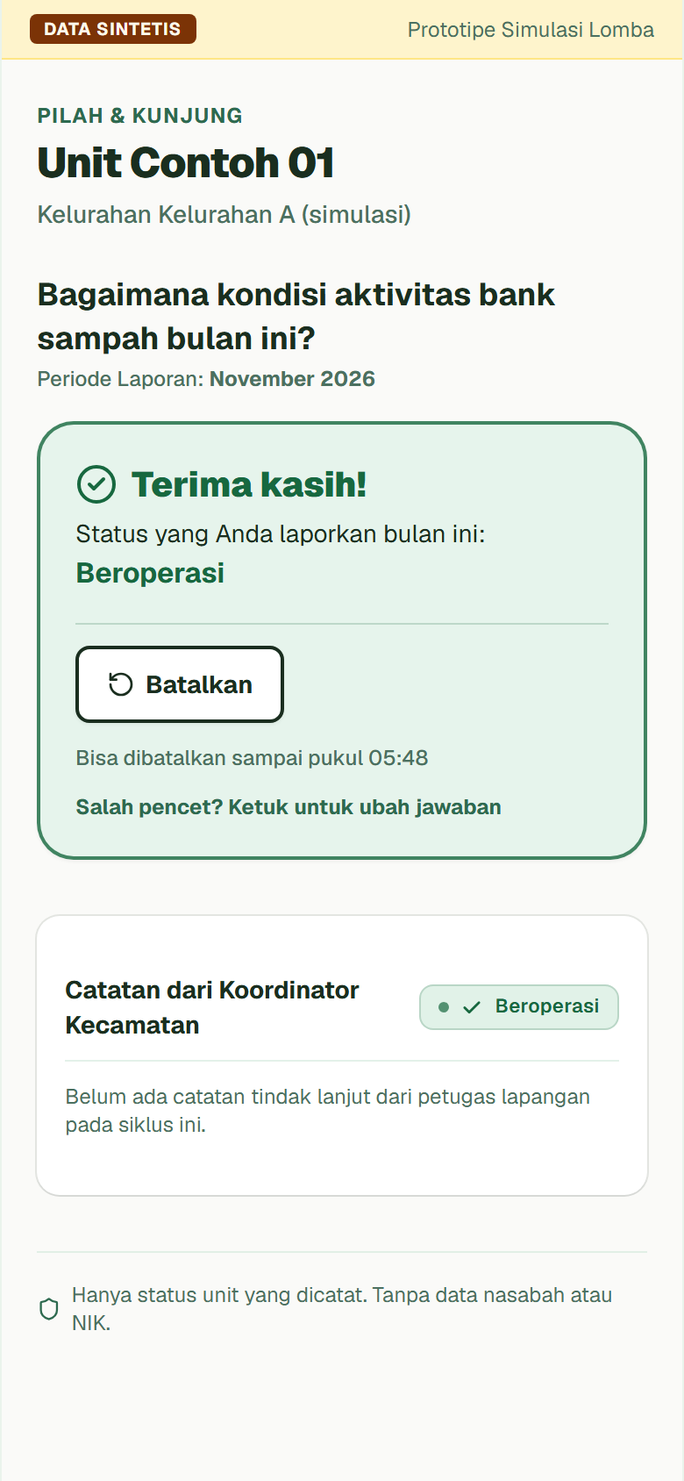
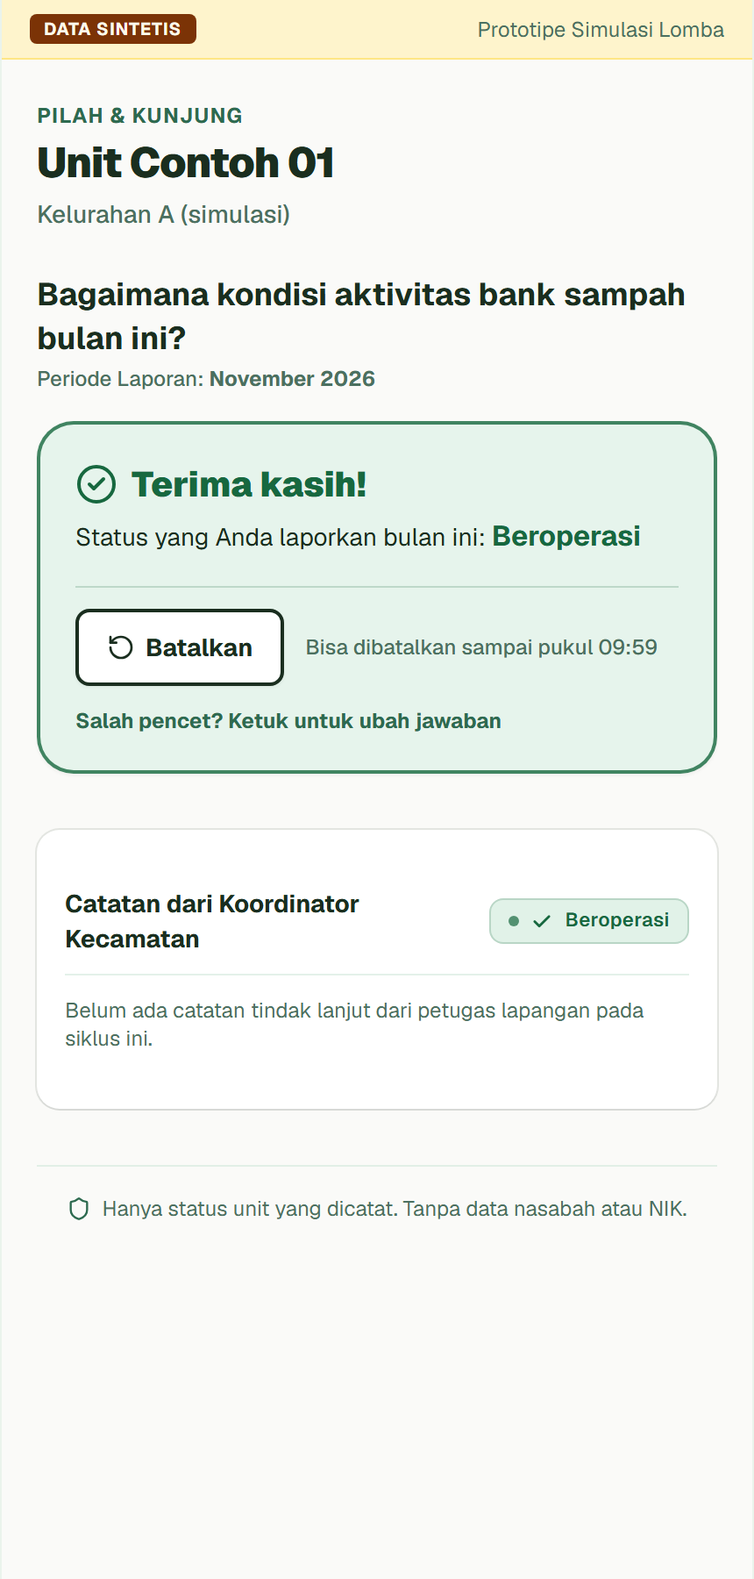
chore: sync UI labels, zod dependency, screenshots, and semifinal docs

diff --git a/src/components/landing/content.tsx b/src/components/landing/content.tsx
@@ -26,7 +26,7 @@ export const STEPS = [
     num: "02",
     title: "Check-In 1 Ketukan",
     href: `/c/${demo.token}`,
-    desc: "Pengurus buka tautan di ponsel, tanpa login dan tanpa password. Pilih satu status: Beroperasi, Libur, atau Tutup. Selesai dalam 10 detik.",
+    desc: "Pengurus buka tautan di ponsel, tanpa login dan tanpa password. Pilih satu status: Beroperasi, Dijeda, atau Tutup. Selesai dalam 10 detik.",
     tag: "< 10 Detik",
     icon: Smartphone,
     iconBg: "bg-green-brand text-white",
@@ -61,7 +61,7 @@ export const STATS = [
 export const GUIDE_PENGURUS = [
   "Tunggu pesan WhatsApp dari koordinator setiap awal bulan",
   "Ketuk tautan dalam pesan, langsung terbuka di browser ponsel",
-  "Pilih satu status: Beroperasi, Libur, atau Tutup Permanen",
+  "Pilih satu status: Beroperasi, Dijeda, atau Tutup Permanen",
   "Selesai! Tidak ada login, tidak ada aplikasi yang perlu diinstall",
 ];
 
@@ -75,7 +75,7 @@ export const GUIDE_KOORDINATOR = [
 export const AUDIT_MATRIX = [
   { spec: "Alur 4 Layar Klik Interaktif", detail: "Mode demo memakai localStorage; mode DB memakai PostgreSQL lewat API", status: "Works (Simulasi)", tier: "live" },
   { spec: "4 Status Siklus & Fitur Pembatalan", detail: "Operating, Paused, Closed (konfirmasi 2 tahap), pembatalan 10 menit", status: "Works (Simulasi)", tier: "live" },
-  { spec: "Mesin Kalkulasi Prioritas Kunjungan", detail: "Algoritma deterministik 3×M + W + B diuji dengan unit test", status: "Library + Tests", tier: "tested" },
+  { spec: "Mesin Kalkulasi Prioritas Kunjungan", detail: "Algoritma deterministik 2×M + W + B diuji dengan unit test", status: "Library + Tests", tier: "tested" },
   { spec: "Keamanan Token & Idempotensi", detail: "Hash SHA-256 (128-bit entropy), rate limiter, GET aman anti-crawler WA", status: "Library + Tests", tier: "tested" },
   { spec: "Basis Data & Rollover Siklus", detail: "PostgreSQL, Prisma, sesi RBAC, rollover dipicu admin (cron belum)", status: "Works (DB)", tier: "live" },
   { spec: "Integrasi WhatsApp Business API", detail: "Pengiriman pesan otomatis terintegrasi langsung ke nomor pengurus", status: "Planned (Fase 2 dan 3)", tier: "planned" },

diff --git a/src/components/coordinator/UnitDetailClient.tsx b/src/components/coordinator/UnitDetailClient.tsx
@@ -89,7 +89,7 @@ export function UnitDetailClient() {
         <div>
           <h1 className="text-3xl font-black tracking-tight text-ink">{unit.name}</h1>
           <p className="text-sm text-muted">
-            Kelurahan {unit.kelurahan} · Kontak pengurus: <span className="font-mono">{unit.contact}</span>{" "}
+            {unit.kelurahan} · Kontak pengurus: <span className="font-mono">{unit.contact}</span>{" "}
             <span className="text-xs text-muted/70">(nomor sintetis)</span>
           </p>
         </div>
@@ -169,7 +169,7 @@ export function UnitDetailClient() {
                   className="h-full w-full object-cover group-hover:scale-102 transition-transform duration-300"
                 />
                 <div className="absolute bottom-2 left-2 bg-spruce/85 backdrop-blur-xs text-white text-[10px] font-mono px-2 py-0.5 rounded-sm tracking-wider uppercase">
-                  Titik Kumpul: Kelurahan {unit.kelurahan}
+                  Titik Kumpul: {unit.kelurahan}
                 </div>
               </div>
             </div>

diff --git a/src/components/manager/CheckinClient.tsx b/src/components/manager/CheckinClient.tsx
@@ -131,7 +131,7 @@ export function CheckinClient() {
       <div className="space-y-1">
         <p className="text-xs font-bold uppercase tracking-wider text-brand">Pilah &amp; Kunjung</p>
         <h1 className="text-2xl font-black tracking-tight text-ink leading-tight">{unit.name}</h1>
-        <p className="text-sm text-muted font-medium">Kelurahan {unit.kelurahan}</p>
+        <p className="text-sm text-muted font-medium">{unit.kelurahan}</p>
       </div>
 
       <section className="mt-6" aria-labelledby="q">
@@ -192,8 +192,8 @@ export function CheckinClient() {
             <BigChoiceButton
               tone="PAUSED"
               icon={<PauseIcon className="h-6 w-6 text-pa" />}
-              label="Libur Sementara"
-              hint="Berhenti sementara, namun berencana aktif lagi"
+              label="Dijeda"
+              hint="Libur atau berhenti sementara, berencana aktif lagi"
               selected={thisCycleSignal?.status === "PAUSED"}
               onClick={() => choose("PAUSED")}
             />

diff --git a/src/components/coordinator/CyclesClient.tsx b/src/components/coordinator/CyclesClient.tsx
@@ -260,7 +260,7 @@ export function CyclesClient() {
                           </div>
 
                           <p className="text-[11px] text-zinc-700">
-                            Terima kasih, <i>Koordinator DLH</i>
+                            Terima kasih, <i>Korcam Gunungpati</i>
                           </p>
 
                           <div className="flex items-center justify-end gap-1 pt-0.5 text-[10px] text-zinc-500">

diff --git a/src/components/coordinator/AppNav.tsx b/src/components/coordinator/AppNav.tsx
@@ -60,7 +60,7 @@ export function AppNav() {
               Pilah &amp; Kunjung
             </span>
             <span className="text-[10px] font-medium text-muted tracking-wide">
-              DLH Kota Semarang
+              Pilot Kec. Gunungpati (Simulasi)
             </span>
           </div>
         </Link>

diff --git a/docs/TECHNICAL-DESIGN.md b/docs/TECHNICAL-DESIGN.md
@@ -18,9 +18,9 @@ Contoh ekspor: `pandoc docs/TECHNICAL-DESIGN.md -o technical-design.pdf --number
 - [06 — Logika Peringkat Kunjungan (deterministik, tanpa AI)](#doc-06)
 - [07 — Rundown Pengerjaan per Role](#doc-07)
 - [08 — Tugas Substantif Final Day (16 Des)](#doc-08)
-- [09 — Pengungkapan Bantuan AI (isi dan perbarui jujur)](#doc-09)
+- [09 — Pengungkapan Bantuan AI (diperbarui secara transparan)](#doc-09)
 - [10 — Git (commit, push, merge) dan deploy Vercel gratis](#doc-10)
-- [ADR 0001 — Pilihan stack (STATUS: USULAN, tim konfirmasi)](#adr-0001)
+- [ADR 0001 — Pilihan stack (STATUS: DITERIMA, 27 November 2026)](#adr-0001)
 
 ---
 
@@ -227,9 +227,9 @@ Sederhana, bisa diserahterimakan ke operator DLH, tanpa biaya AI, tanpa data war
 ## Env (tanpa rahasia di repo)
 DATABASE_URL, DIRECT_URL (koneksi langsung untuk migrasi; di Neon = host non-pooled), AUTH_SECRET, APP_BASE_URL, TOKEN_PEPPER. Opsional untuk seed: SEED_ADMIN_*, SEED_COORDINATOR_*, SEED_ADVISOR_*. Contoh di `.env.example`; rahasia tidak boleh di-commit.
 
-## Backend — PostgreSQL + Prisma (API aktif; UI beralih otomatis bila DB tersedia)
+## Backend: PostgreSQL + Prisma (Arsitektur Dual-Mode Aktif)
 
-Ruang lingkup: lapisan server nyata untuk alur inti. UI dashboard/Pesan WA/check-in **masih** memakai state demo di browser; migrasi UI ke API adalah fase berikutnya. Tidak ada AI/ML dan tidak ada tabel data pribadi warga.
+Ruang lingkup: lapisan server penuh untuk alur inti, lengkap dengan jembatan `AppDataProvider` (`GET /api/health`). Saat `DATABASE_URL` tersedia, seluruh antarmuka (`/cycles`, `/dashboard`, `/units/[id]`, `/c/[token]`, `/settings`) otomatis berjalan dalam mode `api` dan melakukan operasi baca/tulis langsung ke PostgreSQL 16 melalui 14 Route Handlers bervalidasi Zod. Tanpa database (misalnya pada demo statis), sistem otomatis jatuh ke simulasi `localStorage` tanpa konfigurasi. Tidak ada AI/ML dan tidak ada tabel data pribadi warga.
 
 ```mermaid
 flowchart LR
@@ -299,9 +299,9 @@ Verifikasi yang sudah dijalankan: `prisma validate` ✅, `prisma generate` ✅, 
 - Sesi stateless: mencabut satu sesi belum didukung (rotasi `AUTH_SECRET` membatalkan semua).
 - Rollover belum dijadwalkan otomatis (cron); saat ini dipicu `POST /api/cycles` oleh admin.
 - Tautan check-in hanya bisa ditampilkan sekali saat rotasi. UI Pesan WA perlu memanggil endpoint rotasi atau menyimpan tautan di sisi klien sampai terkirim.
-- Form edit bobot sudah tersedia, tetapi nilainya tetap **heuristik yang belum divalidasi lapangan** (data sintetis). UI memberi label "visualisasi simulasi — angka dummy, bukan rekomendasi operasional". Di mode demo tanpa database, form tetap tampil sebagai visualisasi POV DLH; perubahan hanya tersimpan di `localStorage` dan diberi label demikian. Di mode DB, hanya ADMIN yang boleh menulis ke `ranking_settings`.
+- Form edit bobot sudah tersedia, tetapi nilainya tetap **heuristik yang belum divalidasi lapangan** (data sintetis). UI memberi label "visualisasi simulasi, angka dummy, bukan rekomendasi operasional". Di mode demo tanpa database, form tetap tampil sebagai visualisasi POV DLH; perubahan hanya tersimpan di `localStorage` dan diberi label demikian. Di mode DB, hanya ADMIN yang boleh menulis ke `ranking_settings`.
 
-## Technical design — lapisan presentasi & interaksi (sudah diterapkan di prototipe)
+## Technical design: lapisan presentasi dan interaksi (sudah diterapkan di prototipe)
 
 Ruang lingkup: **kosmetik dan interaksi saja**. Tidak mengubah alur empat layar, kontrak GET/POST, rumus `src/lib/ranking`, skema Prisma, atau status fitur di README. Tidak ada AI/ML, tidak ada data pribadi baru, dan tidak ada dependency runtime baru.
 
@@ -329,7 +329,7 @@ flowchart TB
 | Reduced motion | `html { scroll-behavior: auto !important }`, `transition/animation: none`, translate hover dimatikan | Memakai `prefers-reduced-motion: reduce`; tidak ada konten yang tersembunyi permanen. |
 | Fokus | `:focus-visible` outline 3 px `#40916c`, offset 2 px, radius 8 px | Tidak diubah dari sistem sebelumnya. |
 | Jarak antar tombol | `DialogFooter` memakai `gap-3` (12 px) di semua breakpoint; grup tombol pasangan/aksi memakai `gap-2`–`gap-3` | Sebelumnya `sm:gap-0` membuat tombol Batal/Simulasikan menempel di layar lebar; kini ada jarak tetap dan aman untuk sentuh. |
-| Mockup perangkat | Bingkai iPhone CSS `aspect-[9/19.5]` (mis. 310×672 px), **dua lapis**: rail titanium 6 px + bezel hitam 4 px, dynamic island, tombol samping, status bar, dan home indicator | Mockup di layar Pesan WA memakai proporsi perangkat nyata, bukan kotak 340 px. Ketebalan frame 10 px per sisi agar proporsional pada lebar 310 px (sebelumnya 3 px terlihat terlalu tipis). Murni CSS — tanpa file gambar perangkat, tetap tajam dan responsif (`max-w-[310px]`). |
+| Mockup perangkat | Bingkai iPhone CSS `aspect-[9/19.5]` (mis. 310×672 px), **dua lapis**: rail titanium 6 px + bezel hitam 4 px, dynamic island, tombol samping, status bar, dan home indicator | Mockup di layar Pesan WA memakai proporsi perangkat nyata, bukan kotak 340 px. Ketebalan frame 10 px per sisi agar proporsional pada lebar 310 px (sebelumnya 3 px terlihat terlalu tipis). Murni CSS tanpa file gambar perangkat, tetap tajam dan responsif (`max-w-[310px]`). |
 
 ### Peta komponen
 
@@ -360,7 +360,7 @@ flowchart TB
 
 - Ranking tetap rumus deterministik; tidak ada model AI/ML dan tidak ada prediksi.
 - Tidak ada perubahan skema → `docs/02-ERD.md` tidak perlu diubah.
-- State demo prototipe masih di `localStorage` lewat `lib/demo/store`; target state di server (bagian Backend di atas) belum diimplementasikan.
+- Saat berjalan tanpa `DATABASE_URL` (mode demo statis), state prototipe disimpan di `localStorage` lewat `lib/demo/store`; saat `DATABASE_URL` aktif, state dikelola penuh oleh server PostgreSQL melalui `AppDataProvider` dan Route Handlers.
 - Perubahan status tetap hanya lewat POST; render GET tidak memutasi data.
 - Chip material pada foto infrastruktur hanya label umum yang selaras dengan tulisan yang memang terlihat di foto (`BOTOL PLASTIK`, `KERTAS`, `DAUN`), bukan angka lapangan.
 - Teks UI memakai tanda baca alami (titik, koma, titik dua). Em dash dan double dash tidak dipakai di teks yang dirender; yang tersisa hanya di komentar kode.
@@ -384,7 +384,7 @@ Prinsip: kontrol keamanan tidak boleh menambah beban pengurus (relawan, ada yang
 | 4 | Salah ketuk | Batalkan 10 menit (undone_at) | Toast "Batalkan" besar | checkin_signals |
 | 5 | Kebocoran URL via referrer/mesin pencari | Referrer-Policy: no-referrer, X-Robots-Tag: noindex | Tidak terlihat | - |
 | 6 | Brute force token | Rate limit per IP + per token; respons seragam | Halaman "tautan tidak berlaku" yang netral | audit_logs |
-| 7 | Akun korcam diambil alih | Hash kata sandi (argon2/bcrypt), sesi httpOnly, CSRF | Login sederhana, pesan galat umum | users |
+| 7 | Akun korcam diambil alih | Hash kata sandi scrypt (Node.js crypto, timing-safe), cookie sesi httpOnly bertanda tangan HMAC-SHA256 (8 jam) | Login sederhana, pesan galat umum | users |
 | 8 | Akses lintas kecamatan | RBAC: korcam hanya sub_district miliknya; admin lintas | Dasbor otomatis terfilter | users, sub_districts |
 | 9 | Perubahan tidak terlacak | Audit log tindakan korcam/admin | Riwayat terlihat di /units/[id] | audit_logs, visit_confirmations |
 | 10 | Data pribadi warga | Tidak ada tabel nasabah; nomor WA pengurus hanya untuk korcam/admin | Nomor disamarkan di layar pengurus | units |
@@ -422,7 +422,7 @@ Bobot rumus, cutoff_days, daftar unit (tambah/arsip), pengguna.
 ## Komponen
 StatusBadge, BigChoiceButton, UnitRow, ScoreTooltip, ConfirmDialog, SyntheticBanner, EmptyState.
 
-Token radius Fibonacci, header kaca, badge status modern, smooth scroll, dan perilaku hover kontras dijelaskan di `docs/03-ARCHITECTURE.md` bagian "Technical design — lapisan presentasi & interaksi".
+Token radius Fibonacci, header kaca, badge status modern, smooth scroll, dan perilaku hover kontras dijelaskan di `docs/03-ARCHITECTURE.md` bagian "Technical design: lapisan presentasi dan interaksi".
 
 ---
 
@@ -454,6 +454,12 @@ export function score(u: UnitInput, cfg: Cfg): number | null {
 ## Tes wajib (tests/ranking)
 Closed dikecualikan; seri dipecah last_signal_at; bobot dari settings; batas 3 dan 6 bulan; unit tanpa riwayat.
 
+## Mitigasi Klaim Beroperasi Semu (False-Positive Self-Reporting)
+Untuk mengantisipasi pengurus yang mengetuk `Beroperasi` agar cepat selesai atau sungkan (*courtesy tap*) tanpa merusak target check-in `<10` detik (tanpa wajib unggah foto GPS tiap bulan), sistem menerapkan tiga lapis pertahanan:
+1. **Insentif Sosial Tanpa Sanksi:** Pengurus bekerja sukarela tanpa honor rutin (`Noerchaisna & Marom, 2025`; `Situmeang et al., 2023`). Status `Dijeda` memicu bantuan pendampingan atau mitra pengepul (Perwalkot Semarang 103/2021 Pasal 41g), sedangkan `Tutup` menghentikan pengingat bulanan setelah konfirmasi korcam.
+2. **Isolasi `monthsSinceContact` (`B_kunjungan`) dari Ketukan Pengurus:** Di `src/lib/ranking/index.ts`, ketukan pengurus hanya memperbarui `last_signal_at` (`checkin_signals`), sedangkan `last_visited_at` (`monthsSinceContact`) **hanya di-reset oleh verifikasi korcam/DLH (`visit_confirmations`)**. Unit yang terus mengetuk `Beroperasi` tanpa pernah diverifikasi `>6` bulan tetap memperoleh `B_kunjungan = +2` agar terambil untuk uji petik berkala (*spot-check*) saat antrean mendesak mereda.
+3. **Pemeriksaan Silang Pasif (*Zero-Burden Cross-Check*):** Korcam (yang juga pengurus bank sampah di kecamatan sama) dan Bank Sampah Induk (BSI) kecamatan dapat mencocokkan klaim `Beroperasi` beruntun dengan catatan riwayat jemputan sampah kering serta laporan kemitraan 6-bulanan (Permen LHK No. 14/2021 Pasal 15 ayat 4 & Lampiran IV).
+
 ---
 
 <a id="doc-07"></a>
@@ -474,19 +480,17 @@ Proposal saat ini mengklaim "clickable flow sudah dibangun" dan "dataset sinteti
 Gerbang kualitas: semua klaim "sudah" punya bukti (tangkapan layar/berkas).
 
 ## Fase 2 — Menunggu pengumuman Top 10 (1–6 Des)
-Siapkan repo kosong berstruktur (folder di README), `.env.example`, docker-compose, migrasi awal. Jangan menganggap lolos.
-**Status 27 Nov:** schema final, migrasi awal, `docker-compose.yml`, seed sintetis, auth/RBAC, endpoint inti, dan penyambungan UI ke API sudah dibuat (lihat docs/03). Mode demo localStorage tetap tersedia bila database tidak dikonfigurasi.
+Siapkan penyediaan database cloud (Neon/Supabase), mekanisme pencabutan sesi aktif, serta skrip uji integrasi/beban. Jangan menganggap lolos.
+**Status 27 Nov:** skema final 10 tabel Prisma, migrasi awal, `docker-compose.yml`, seed sintetis, auth scrypt + sesi HMAC, RBAC, 14 endpoint inti bervalidasi Zod, workspace `/settings`, dan penyambungan UI dua mode via `AppDataProvider` sudah dibuat (lihat `docs/03-ARCHITECTURE.md`). Mode demo `localStorage` tetap aktif otomatis bila `DATABASE_URL` tidak dikonfigurasi.
 
 ## Fase 3 — Perbaikan produk (7–16 Des, jika lolos)
 | Hari | Tugas | Pemilik |
 |------|-------|---------|
-| 7–8 | Setup proyek, DB, seed 30 unit, layout dasar | C + B |
-| 8–10 | Token + endpoint check-in (POST, hash, rate limit) + halaman /c/[token] | C + B |
-| 10–12 | Login + RBAC + dasbor baca-saja (tabel unit) | C + B |
-| 12–13 | Pembuat pesan wa.me + halaman /cycles | A + B |
-| 13–14 | Tes keamanan dasar (tests/security), uji simulasi | D + C |
-| 14–15 | README (setup, batasan, bantuan AI), fallback lokal, cadangan demo | A + D |
-| 15–16 | Latihan pitch, catat commit awal, daftar fitur selesai vs belum | semua |
+| 7–9 | Penyediaan database PostgreSQL cloud (Neon/Supabase) + konfigurasi env Vercel | C + A |
+| 9–11 | Mekanisme pencabutan sesi per pengguna + halaman admin manajemen pengguna | C + B |
+| 11–13 | Pengujian integrasi end-to-end (mode DB & mode demo) + simulasi beban | D + C |
+| 13–14 | Finalisasi fallback lokal `docker-compose`, README, dan verifikasi AI disclosure | A + D |
+| 15–16 | Latihan pitch, catat commit awal Final Day, siapkan 3 tugas substantif Final Day (`docs/08`) | semua |
 Catatan: langganan Claude habis 8 Des; seluruh arahan ada di docs/ dan AGENTS.md agar tidak bergantung pada satu asisten.
 
 ---
@@ -494,29 +498,29 @@ Catatan: langganan Claude habis 8 Des; seluruh arahan ada di docs/ dan AGENTS.md
 <a id="doc-08"></a>
 
 # 08 — Tugas Substantif Final Day (16 Des)
-Handbook: tim datang dengan prototipe sebagian jadi lalu menyelesaikan 2–3 tugas besar.
-1. **Siklus konfirmasi dua arah:** korcam mencatat kontak/kunjungan -> status unit berubah -> pengurus melihat umpan balik di /c/[token]. (visit_confirmations, current_status)
-2. **Mesin peringkat langsung:** `lib/ranking` terhubung ke dasbor, filter status, penyesuaian manual, bobot dari settings. (tests/ranking hijau)
-3. **Rollover siklus + ekspor CSV:** siklus baru memicu Unconfirmed otomatis; ekspor daftar kunjungan.
+Handbook: tim datang dengan prototipe sebagian jadi lalu menyelesaikan 2 hingga 3 tugas besar secara langsung selama sesi membangun.
+1. **Distribusi Token Produksi Sekali-Tampil & Manajemen CRUD Unit di UI (`/units` & `/cycles`):** menghubungkan endpoint rotasi/pencabutan token (`POST /api/units/[id]/token`) serta formulir tambah dan arsip unit langsung ke alur pengiriman pesan WhatsApp korcam (menggantikan token pratinjau seed statis).
+2. **Evaluasi Cutoff Siklus Otomatis & Komparasi Tren Antar-Siklus Bulanan:** deteksi otomatis unit yang melewati `cutoff_at` tanpa pemicu manual admin, disertai ringkasan tren perubahan status antar-bulan di dasbor.
+3. **Tampilan Agregasi Lintas-Kecamatan untuk Pembina DLH (`ADVISOR`) & Peninjau Jejak Audit (`AuditLog`) di Aplikasi:** membangun pemilih serta rekapitulasi lintas kecamatan bagi peran `ADVISOR` dan tabel inspeksi `audit_logs` di antarmuka web.
 ## Yang HARUS sudah ada sebelum Final Day
-Skema+migrasi, seed sintetis, /c/[token] (check-in berfungsi), login, dasbor baca-saja. Catat commit awal.
+Skema 10 tabel Prisma + migrasi SQL, seed 30 unit sintetis, autentikasi `scrypt` + RBAC, UI 4 layar dual-mode (`AppDataProvider`), 14 endpoint Route Handler inti, serta 28 unit test hijau. Catat commit awal saat check-in Final Day.
 ## Definisi selesai
-Satu alur lengkap berjalan dari pesan WA -> ketuk -> dasbor -> kunjungan -> umpan balik, dengan data sintetis berlabel.
+Seluruh alur produksi berjalan tanpa token demo statis: tambah unit -> rotasi token acak 128-bit -> kirim WA -> check-in pengurus -> evaluasi cutoff otomatis -> tindak lanjut kunjungan -> peninjauan lintas kecamatan oleh pembina DLH dan audit log, dengan seluruh data sintetis berlabel jelas.
 
 ---
 
 <a id="doc-09"></a>
 
-# 09 — Pengungkapan Bantuan AI (isi dan perbarui jujur)
-| Tool | Peran | Bagian |
-|------|-------|--------|
-| Claude | Riset literatur awal, struktur proposal, usulan ERD/arsitektur/rundown, suntingan bahasa | docs/, proposal |
-| Gemini | (isi sesuai kenyataan) | |
-| (tool coding bila dipakai) | | |
-Produk tidak memakai AI saat berjalan. Tim meninjau, mengetes, dan bertanggung jawab atas semua keluaran.
-| Claude (Claude Code) | Menulis kode awal prototipe: UI 4 layar, pustaka ranking/token/wa.me, tes, data seed sintetis, README | src/, tests/, seed/, scripts/ — **tim wajib meninjau & menguji sebelum klaim di proposal 7.3 (ditinjau oleh: ____ , tanggal: ____)** |
-| OpenCode (Hy4 flash Free) | Menyempurnakan lapisan visual/interaksi: smooth scroll + tombol kembali ke atas, header kaca, skala radius Fibonacci, status badge modern (dot + ikon + inversi kontras), hover kontras pada tabel/kartu/baris/form, integrasi ikon SVG `public/icons/waste-bank` dan foto `public/images` yang sudah ada, serta mark logo + favicon SVG baru | src/app/globals.css, src/app/layout.tsx, src/app/page.tsx, src/components/{common,landing,coordinator,ui,manager}, public/{logo.svg,favicon.svg} — **hanya kosmetik; tidak mengubah alur, status fitur, atau data. Tim wajib meninjau & menguji (ditinjau oleh: ____ , tanggal: ____)** |
-| OpenCode (DeepSeek V4.1 Flash Free) | Mengimplementasikan backend PostgreSQL + Prisma (schema, migrasi, seed, auth scrypt + sesi HMAC, RBAC, service, Route Handler Zod + rate limit, CSV) **dan menyambungkan UI ke API** dengan fallback mode demo, login sungguhan, proteksi area koordinator, serta form simulasi admin untuk bobot per kecamatan | prisma/, src/lib/{db,auth,api,services,appdata}, src/app/api/**, src/components/{LoginClient,SettingsClient}.tsx, src/proxy.ts, docker-compose.yml, .env.example, tests/backend.test.ts — **migrasi/seed, smoke test endpoint (termasuk validasi bobot 422), dan uji browser login→dasbor→check-in/undo→form settings sudah dijalankan terhadap PostgreSQL 19; tim tetap wajib meninjau (ditinjau oleh: ____ , tanggal: ____)** |
+# 09 — Pengungkapan Bantuan AI (diperbarui secara transparan)
+Produk Pilah & Kunjung tidak menjalankan AI/ML saat beroperasi (runtime); sistem pemeringkatan kunjungan murni menggunakan rumus deterministik transparan. Seluruh keluaran alat bantu di bawah ini telah ditinjau, diuji, dan dipertanggungjawabkan oleh anggota tim terdaftar RumaSynapse Corp.
+
+| Tool | Peran | Bagian | Status Tinjauan Tim |
+|---|---|---|---|
+| Anthropic Claude | Riset literatur awal, verifikasi silang sumber publik, struktur proposal, usulan ERD/arsitektur/rundown, suntingan awal bahasa | `docs/`, abstrak, draf awal proposal | Ditinjau & diverifikasi oleh Janerson & Tim |
+| Google Gemini & Antigravity | Audit kode menyeluruh lintas branch, perbaikan sinkronisasi UI & dokumen teknis, penyusunan dan verifikasi PDF Proposal Semifinal dwibahasa (EN/ID) | `src/components/`, `docs/`, Proposal Semifinal EN & ID | Ditinjau & diverifikasi oleh Tim |
+| Claude (Claude Code) | Menulis kode awal prototipe: UI 4 layar awal, pustaka `ranking`/`token`/`wa.me`, tes Vitest awal, data seed sintetis, README | `src/`, `tests/`, `seed/`, `scripts/` | Ditinjau & diuji (`npm test`) oleh Tim |
+| OpenCode (Hy4 Flash Free) | Menyempurnakan lapisan visual/interaksi: smooth scroll, tombol kembali ke atas, header kaca, skala radius Fibonacci, status badge modern, hover kontras, integrasi ikon SVG `public/icons/waste-bank` dan foto `public/images`, logo & favicon SVG | `src/app/globals.css`, `layout.tsx`, `page.tsx`, `src/components/*`, `public/{logo,favicon}.svg` | Kosmetik UI; diverifikasi render & diperbaiki bug label oleh Tim |
+| OpenCode (DeepSeek V4.1 Flash Free) | Mengimplementasikan backend PostgreSQL + Prisma (schema 10 tabel, migrasi, seed, auth `scrypt` + sesi HMAC, RBAC, service, Route Handler Zod + rate limit, CSV) dan menyambungkan UI ke API dengan fallback mode demo serta workspace `/settings` | `prisma/`, `src/lib/{db,auth,api,services,appdata}`, `src/app/api/**`, `src/components/{LoginClient,SettingsClient}.tsx`, `src/proxy.ts`, `docker-compose.yml`, `.env.example`, `tests/backend.test.ts` | Migrasi, seed, typecheck, build, dan 28/28 tes lulus; ditinjau oleh Tim |
 
 ---
 
@@ -570,10 +574,7 @@ Catatan: paket Hobby ditujukan untuk penggunaan pribadi/non-komersial (cukup unt
 
 <a id="adr-0001"></a>
 
-# ADR 0001 — Pilihan stack (STATUS: USULAN, tim konfirmasi)
-Pilihan: Next.js + TypeScript + Tailwind + Prisma + PostgreSQL. Alasan: satu bahasa, mudah dideploy, mudah diserahterimakan.
-Alternatif: Supabase (auth+DB terkelola; lebih cepat, lebih bergantung vendor); SQLite (paling ringan, tapi hosting demo kurang fleksibel).
-Keputusan: ______ (isi tanggal & nama penentu).
-Pastikan proposal bagian 4.1 sama persis dengan keputusan ini.
-
-Catatan 25 Nov 2026: prototipe 30 Nov dibangun dengan Next.js 16 + TypeScript + Tailwind 4 TANPA database (state di browser). Pilihan database (PostgreSQL/Neon vs Supabase vs SQLite) tetap menunggu keputusan tim; sinkronkan proposal 4.1.
+# ADR 0001 — Pilihan stack (STATUS: DITERIMA, 27 November 2026)
+Pilihan final tim RumaSynapse Corp.: Next.js 16 (App Router) + React 19 + TypeScript 5 + Tailwind CSS 4 + shadcn/ui + Zod + Prisma 6 + PostgreSQL 16 (dengan fallback demo `localStorage` tanpa konfigurasi). Alasan: satu bahasa di seluruh stack, mudah dideploy ke Vercel maupun fallback lokal via `docker-compose`, dan mudah diserahterimakan ke operator daerah.
+Alternatif yang sempat dipertimbangkan: Supabase (auth+DB terkelola; lebih cepat dibangun, namun lebih terikat vendor) dan SQLite (paling ringan, namun kurang fleksibel untuk hosting demo serverless multi-request).
+Keputusan: Disetujui oleh tim RumaSynapse Corp. (27 November 2026) untuk implementasi branch `feat/development` dan Proposal Semifinal bagian 4.1.

diff --git a/docs/03-ARCHITECTURE.md b/docs/03-ARCHITECTURE.md
@@ -35,9 +35,9 @@ Sederhana, bisa diserahterimakan ke operator DLH, tanpa biaya AI, tanpa data war
 ## Env (tanpa rahasia di repo)
 DATABASE_URL, DIRECT_URL (koneksi langsung untuk migrasi; di Neon = host non-pooled), AUTH_SECRET, APP_BASE_URL, TOKEN_PEPPER. Opsional untuk seed: SEED_ADMIN_*, SEED_COORDINATOR_*, SEED_ADVISOR_*. Contoh di `.env.example`; rahasia tidak boleh di-commit.
 
-## Backend — PostgreSQL + Prisma (API aktif; UI beralih otomatis bila DB tersedia)
+## Backend: PostgreSQL + Prisma (Arsitektur Dual-Mode Aktif)
 
-Ruang lingkup: lapisan server nyata untuk alur inti. UI dashboard/Pesan WA/check-in **masih** memakai state demo di browser; migrasi UI ke API adalah fase berikutnya. Tidak ada AI/ML dan tidak ada tabel data pribadi warga.
+Ruang lingkup: lapisan server penuh untuk alur inti, lengkap dengan jembatan `AppDataProvider` (`GET /api/health`). Saat `DATABASE_URL` tersedia, seluruh antarmuka (`/cycles`, `/dashboard`, `/units/[id]`, `/c/[token]`, `/settings`) otomatis berjalan dalam mode `api` dan melakukan operasi baca/tulis langsung ke PostgreSQL 16 melalui 14 Route Handlers bervalidasi Zod. Tanpa database (misalnya pada demo statis), sistem otomatis jatuh ke simulasi `localStorage` tanpa konfigurasi. Tidak ada AI/ML dan tidak ada tabel data pribadi warga.
 
 ```mermaid
 flowchart LR
@@ -107,9 +107,9 @@ Verifikasi yang sudah dijalankan: `prisma validate` ✅, `prisma generate` ✅, 
 - Sesi stateless: mencabut satu sesi belum didukung (rotasi `AUTH_SECRET` membatalkan semua).
 - Rollover belum dijadwalkan otomatis (cron); saat ini dipicu `POST /api/cycles` oleh admin.
 - Tautan check-in hanya bisa ditampilkan sekali saat rotasi. UI Pesan WA perlu memanggil endpoint rotasi atau menyimpan tautan di sisi klien sampai terkirim.
-- Form edit bobot sudah tersedia, tetapi nilainya tetap **heuristik yang belum divalidasi lapangan** (data sintetis). UI memberi label "visualisasi simulasi — angka dummy, bukan rekomendasi operasional". Di mode demo tanpa database, form tetap tampil sebagai visualisasi POV DLH; perubahan hanya tersimpan di `localStorage` dan diberi label demikian. Di mode DB, hanya ADMIN yang boleh menulis ke `ranking_settings`.
+- Form edit bobot sudah tersedia, tetapi nilainya tetap **heuristik yang belum divalidasi lapangan** (data sintetis). UI memberi label "visualisasi simulasi, angka dummy, bukan rekomendasi operasional". Di mode demo tanpa database, form tetap tampil sebagai visualisasi POV DLH; perubahan hanya tersimpan di `localStorage` dan diberi label demikian. Di mode DB, hanya ADMIN yang boleh menulis ke `ranking_settings`.
 
-## Technical design — lapisan presentasi & interaksi (sudah diterapkan di prototipe)
+## Technical design: lapisan presentasi dan interaksi (sudah diterapkan di prototipe)
 
 Ruang lingkup: **kosmetik dan interaksi saja**. Tidak mengubah alur empat layar, kontrak GET/POST, rumus `src/lib/ranking`, skema Prisma, atau status fitur di README. Tidak ada AI/ML, tidak ada data pribadi baru, dan tidak ada dependency runtime baru.
 
@@ -137,7 +137,7 @@ flowchart TB
 | Reduced motion | `html { scroll-behavior: auto !important }`, `transition/animation: none`, translate hover dimatikan | Memakai `prefers-reduced-motion: reduce`; tidak ada konten yang tersembunyi permanen. |
 | Fokus | `:focus-visible` outline 3 px `#40916c`, offset 2 px, radius 8 px | Tidak diubah dari sistem sebelumnya. |
 | Jarak antar tombol | `DialogFooter` memakai `gap-3` (12 px) di semua breakpoint; grup tombol pasangan/aksi memakai `gap-2`–`gap-3` | Sebelumnya `sm:gap-0` membuat tombol Batal/Simulasikan menempel di layar lebar; kini ada jarak tetap dan aman untuk sentuh. |
-| Mockup perangkat | Bingkai iPhone CSS `aspect-[9/19.5]` (mis. 310×672 px), **dua lapis**: rail titanium 6 px + bezel hitam 4 px, dynamic island, tombol samping, status bar, dan home indicator | Mockup di layar Pesan WA memakai proporsi perangkat nyata, bukan kotak 340 px. Ketebalan frame 10 px per sisi agar proporsional pada lebar 310 px (sebelumnya 3 px terlihat terlalu tipis). Murni CSS — tanpa file gambar perangkat, tetap tajam dan responsif (`max-w-[310px]`). |
+| Mockup perangkat | Bingkai iPhone CSS `aspect-[9/19.5]` (mis. 310×672 px), **dua lapis**: rail titanium 6 px + bezel hitam 4 px, dynamic island, tombol samping, status bar, dan home indicator | Mockup di layar Pesan WA memakai proporsi perangkat nyata, bukan kotak 340 px. Ketebalan frame 10 px per sisi agar proporsional pada lebar 310 px (sebelumnya 3 px terlihat terlalu tipis). Murni CSS tanpa file gambar perangkat, tetap tajam dan responsif (`max-w-[310px]`). |
 
 ### Peta komponen
 
@@ -168,7 +168,7 @@ flowchart TB
 
 - Ranking tetap rumus deterministik; tidak ada model AI/ML dan tidak ada prediksi.
 - Tidak ada perubahan skema → `docs/02-ERD.md` tidak perlu diubah.
-- State demo prototipe masih di `localStorage` lewat `lib/demo/store`; target state di server (bagian Backend di atas) belum diimplementasikan.
+- Saat berjalan tanpa `DATABASE_URL` (mode demo statis), state prototipe disimpan di `localStorage` lewat `lib/demo/store`; saat `DATABASE_URL` aktif, state dikelola penuh oleh server PostgreSQL melalui `AppDataProvider` dan Route Handlers.
 - Perubahan status tetap hanya lewat POST; render GET tidak memutasi data.
 - Chip material pada foto infrastruktur hanya label umum yang selaras dengan tulisan yang memang terlihat di foto (`BOTOL PLASTIK`, `KERTAS`, `DAUN`), bukan angka lapangan.
 - Teks UI memakai tanda baca alami (titik, koma, titik dua). Em dash dan double dash tidak dipakai di teks yang dirender; yang tersisa hanya di komentar kode.

diff --git a/docs/09-AI-DISCLOSURE.md b/docs/09-AI-DISCLOSURE.md
@@ -1,10 +1,10 @@
-# 09 — Pengungkapan Bantuan AI (isi dan perbarui jujur)
-| Tool | Peran | Bagian |
-|------|-------|--------|
-| Claude | Riset literatur awal, struktur proposal, usulan ERD/arsitektur/rundown, suntingan bahasa | docs/, proposal |
-| Gemini | (isi sesuai kenyataan) | |
-| (tool coding bila dipakai) | | |
-Produk tidak memakai AI saat berjalan. Tim meninjau, mengetes, dan bertanggung jawab atas semua keluaran.
-| Claude (Claude Code) | Menulis kode awal prototipe: UI 4 layar, pustaka ranking/token/wa.me, tes, data seed sintetis, README | src/, tests/, seed/, scripts/ — **tim wajib meninjau & menguji sebelum klaim di proposal 7.3 (ditinjau oleh: ____ , tanggal: ____)** |
-| OpenCode (Hy4 flash Free) | Menyempurnakan lapisan visual/interaksi: smooth scroll + tombol kembali ke atas, header kaca, skala radius Fibonacci, status badge modern (dot + ikon + inversi kontras), hover kontras pada tabel/kartu/baris/form, integrasi ikon SVG `public/icons/waste-bank` dan foto `public/images` yang sudah ada, serta mark logo + favicon SVG baru | src/app/globals.css, src/app/layout.tsx, src/app/page.tsx, src/components/{common,landing,coordinator,ui,manager}, public/{logo.svg,favicon.svg} — **hanya kosmetik; tidak mengubah alur, status fitur, atau data. Tim wajib meninjau & menguji (ditinjau oleh: ____ , tanggal: ____)** |
-| OpenCode (DeepSeek V4.1 Flash Free) | Mengimplementasikan backend PostgreSQL + Prisma (schema, migrasi, seed, auth scrypt + sesi HMAC, RBAC, service, Route Handler Zod + rate limit, CSV) **dan menyambungkan UI ke API** dengan fallback mode demo, login sungguhan, proteksi area koordinator, serta form simulasi admin untuk bobot per kecamatan | prisma/, src/lib/{db,auth,api,services,appdata}, src/app/api/**, src/components/{LoginClient,SettingsClient}.tsx, src/proxy.ts, docker-compose.yml, .env.example, tests/backend.test.ts — **migrasi/seed, smoke test endpoint (termasuk validasi bobot 422), dan uji browser login→dasbor→check-in/undo→form settings sudah dijalankan terhadap PostgreSQL 19; tim tetap wajib meninjau (ditinjau oleh: ____ , tanggal: ____)** |
+# 09 — Pengungkapan Bantuan AI (diperbarui secara transparan)
+Produk Pilah & Kunjung tidak menjalankan AI/ML saat beroperasi (runtime); sistem pemeringkatan kunjungan murni menggunakan rumus deterministik transparan. Seluruh keluaran alat bantu di bawah ini telah ditinjau, diuji, dan dipertanggungjawabkan oleh anggota tim terdaftar RumaSynapse Corp.
+
+| Tool | Peran | Bagian | Status Tinjauan Tim |
+|---|---|---|---|
+| Anthropic Claude | Riset literatur awal, verifikasi silang sumber publik, struktur proposal, usulan ERD/arsitektur/rundown, suntingan awal bahasa | `docs/`, abstrak, draf awal proposal | Ditinjau & diverifikasi oleh Janerson & Tim |
+| Google Gemini & Antigravity | Audit kode menyeluruh lintas branch, perbaikan sinkronisasi UI & dokumen teknis, penyusunan dan verifikasi PDF Proposal Semifinal dwibahasa (EN/ID) | `src/components/`, `docs/`, Proposal Semifinal EN & ID | Ditinjau & diverifikasi oleh Tim |
+| Claude (Claude Code) | Menulis kode awal prototipe: UI 4 layar awal, pustaka `ranking`/`token`/`wa.me`, tes Vitest awal, data seed sintetis, README | `src/`, `tests/`, `seed/`, `scripts/` | Ditinjau & diuji (`npm test`) oleh Tim |
+| OpenCode (Hy4 Flash Free) | Menyempurnakan lapisan visual/interaksi: smooth scroll, tombol kembali ke atas, header kaca, skala radius Fibonacci, status badge modern, hover kontras, integrasi ikon SVG `public/icons/waste-bank` dan foto `public/images`, logo & favicon SVG | `src/app/globals.css`, `layout.tsx`, `page.tsx`, `src/components/*`, `public/{logo,favicon}.svg` | Kosmetik UI; diverifikasi render & diperbaiki bug label oleh Tim |
+| OpenCode (DeepSeek V4.1 Flash Free) | Mengimplementasikan backend PostgreSQL + Prisma (schema 10 tabel, migrasi, seed, auth `scrypt` + sesi HMAC, RBAC, service, Route Handler Zod + rate limit, CSV) dan menyambungkan UI ke API dengan fallback mode demo serta workspace `/settings` | `prisma/`, `src/lib/{db,auth,api,services,appdata}`, `src/app/api/**`, `src/components/{LoginClient,SettingsClient}.tsx`, `src/proxy.ts`, `docker-compose.yml`, `.env.example`, `tests/backend.test.ts` | Migrasi, seed, typecheck, build, dan 28/28 tes lulus; ditinjau oleh Tim |

diff --git a/README.md b/README.md
@@ -1,4 +1,4 @@
-# Pilah & Kunjung — A Lightweight Activity Check-In for Semarang's Waste Banks
+# Pilah & Kunjung: A Lightweight Activity Check-In for Semarang's Waste Banks
 Tim: RumaSynapse Corp. | STACK 2026 (Case 2) | Pilot: Kecamatan Gunungpati
 
 > **Semua data = SINTETIS (simulasi).** Tidak ada bank sampah asli, tidak ada data warga. Tidak ada AI/ML di dalam produk.
@@ -6,12 +6,13 @@ Tim: RumaSynapse Corp. | STACK 2026 (Case 2) | Pilot: Kecamatan Gunungpati
 ## Status jujur (per 27 Nov 2026)
 | Bagian | Status |
 |---|---|
-| Alur 4 layar yang bisa diklik (pesan WA → check-in 1 ketukan → dasbor → catat kunjungan → umpan balik) | **Berfungsi, tersimulasi** — state disimpan di browser (localStorage), tanpa server |
-| 4 status unit, Batalkan 10 menit, konfirmasi dua langkah untuk Closed, ekspor CSV (sisi klien), simulasi pergantian siklus | Berfungsi, tersimulasi |
-| Peringkat kunjungan `src/lib/ranking`, token `src/lib/security`, pembuat tautan wa.me, rate limiter | Pustaka + tes (`npm test`); rate limiter kini dipakai endpoint backend |
+| Alur 4 layar yang bisa diklik (pesan WA → check-in 1 ketukan → dasbor → catat kunjungan → umpan balik) | **Berfungsi (Dual-Mode):** memakai API PostgreSQL bila `DATABASE_URL` aktif, atau otomatis fallback ke simulasi browser (`localStorage`) |
+| 4 status unit, Batalkan 10 menit, konfirmasi dua langkah untuk Closed, ekspor CSV (klien & server), simulasi pergantian siklus | **Berfungsi** di mode demo maupun PostgreSQL |
+| Peringkat kunjungan `src/lib/ranking`, token `src/lib/security`, pembuat tautan wa.me, rate limiter | Pustaka + tes (`npm test`, 28 tes); rate limiter aktif pada endpoint backend |
 | Header `Referrer-Policy: no-referrer` pada `/c/*`, `noindex` | Ada (`next.config.ts`) |
-| Database PostgreSQL/Prisma, login & RBAC, endpoint POST server, rotasi/cabut tautan, rollover siklus | **Berfungsi.** UI otomatis memakai API bila `DATABASE_URL` tersedia; tanpa itu tetap berjalan sebagai demo localStorage. Rollover masih dipicu manual (belum cron) |
-| Kirim WhatsApp sungguhan (WhatsApp Business API) | **Planned** — tetap memakai tautan `wa.me` |
+| Database PostgreSQL/Prisma (10 model), login `scrypt` & sesi HMAC + RBAC, 14 endpoint server, rotasi/cabut tautan, rollover siklus, editor bobot `/settings` | **Berfungsi** bila `DATABASE_URL` tersedia. Rollover masih dipicu manual oleh admin (cron otomatis belum) |
+| Integrasi produksi lanjutan (rotasi token sekali-tampil di alur `/cycles` + CRUD unit UI, cutoff otomatis, tampilan lintas-kecamatan ADVISOR & inspektor AuditLog) | **Planned (Tugas Final Day 16 Des, lihat `docs/08-FINAL-DAY-TASKS.md`)** |
+| Kirim WhatsApp sungguhan (WhatsApp Business API) | **Out-of-Scope / Planned jangka panjang:** tetap memakai tautan `wa.me` |
 
 Catatan: token di UI demo adalah token DEMO deterministik (`seed/README.md`). Di backend, token acak 128-bit dibuat saat rotasi dan hanya **hash SHA-256(+pepper)** yang disimpan; token mentah dikembalikan sekali. GET `/c/[token]` tidak mengubah data; perubahan hanya saat tombol diketuk.
 

diff --git a/docs/07-ROADMAP-BY-ROLE.md b/docs/07-ROADMAP-BY-ROLE.md
@@ -14,17 +14,15 @@ Proposal saat ini mengklaim "clickable flow sudah dibangun" dan "dataset sinteti
 Gerbang kualitas: semua klaim "sudah" punya bukti (tangkapan layar/berkas).
 
 ## Fase 2 — Menunggu pengumuman Top 10 (1–6 Des)
-Siapkan repo kosong berstruktur (folder di README), `.env.example`, docker-compose, migrasi awal. Jangan menganggap lolos.
-**Status 27 Nov:** schema final, migrasi awal, `docker-compose.yml`, seed sintetis, auth/RBAC, endpoint inti, dan penyambungan UI ke API sudah dibuat (lihat docs/03). Mode demo localStorage tetap tersedia bila database tidak dikonfigurasi.
+Siapkan penyediaan database cloud (Neon/Supabase), mekanisme pencabutan sesi aktif, serta skrip uji integrasi/beban. Jangan menganggap lolos.
+**Status 27 Nov:** skema final 10 tabel Prisma, migrasi awal, `docker-compose.yml`, seed sintetis, auth scrypt + sesi HMAC, RBAC, 14 endpoint inti bervalidasi Zod, workspace `/settings`, dan penyambungan UI dua mode via `AppDataProvider` sudah dibuat (lihat `docs/03-ARCHITECTURE.md`). Mode demo `localStorage` tetap aktif otomatis bila `DATABASE_URL` tidak dikonfigurasi.
 
 ## Fase 3 — Perbaikan produk (7–16 Des, jika lolos)
 | Hari | Tugas | Pemilik |
 |------|-------|---------|
-| 7–8 | Setup proyek, DB, seed 30 unit, layout dasar | C + B |
-| 8–10 | Token + endpoint check-in (POST, hash, rate limit) + halaman /c/[token] | C + B |
-| 10–12 | Login + RBAC + dasbor baca-saja (tabel unit) | C + B |
-| 12–13 | Pembuat pesan wa.me + halaman /cycles | A + B |
-| 13–14 | Tes keamanan dasar (tests/security), uji simulasi | D + C |
-| 14–15 | README (setup, batasan, bantuan AI), fallback lokal, cadangan demo | A + D |
-| 15–16 | Latihan pitch, catat commit awal, daftar fitur selesai vs belum | semua |
+| 7–9 | Penyediaan database PostgreSQL cloud (Neon/Supabase) + konfigurasi env Vercel | C + A |
+| 9–11 | Mekanisme pencabutan sesi per pengguna + halaman admin manajemen pengguna | C + B |
+| 11–13 | Pengujian integrasi end-to-end (mode DB & mode demo) + simulasi beban | D + C |
+| 13–14 | Finalisasi fallback lokal `docker-compose`, README, dan verifikasi AI disclosure | A + D |
+| 15–16 | Latihan pitch, catat commit awal Final Day, siapkan 3 tugas substantif Final Day (`docs/08`) | semua |
 Catatan: langganan Claude habis 8 Des; seluruh arahan ada di docs/ dan AGENTS.md agar tidak bergantung pada satu asisten.

diff --git a/docs/08-FINAL-DAY-TASKS.md b/docs/08-FINAL-DAY-TASKS.md
@@ -1,9 +1,9 @@
 # 08 — Tugas Substantif Final Day (16 Des)
-Handbook: tim datang dengan prototipe sebagian jadi lalu menyelesaikan 2–3 tugas besar.
-1. **Siklus konfirmasi dua arah:** korcam mencatat kontak/kunjungan -> status unit berubah -> pengurus melihat umpan balik di /c/[token]. (visit_confirmations, current_status)
-2. **Mesin peringkat langsung:** `lib/ranking` terhubung ke dasbor, filter status, penyesuaian manual, bobot dari settings. (tests/ranking hijau)
-3. **Rollover siklus + ekspor CSV:** siklus baru memicu Unconfirmed otomatis; ekspor daftar kunjungan.
+Handbook: tim datang dengan prototipe sebagian jadi lalu menyelesaikan 2 hingga 3 tugas besar secara langsung selama sesi membangun.
+1. **Distribusi Token Produksi Sekali-Tampil & Manajemen CRUD Unit di UI (`/units` & `/cycles`):** menghubungkan endpoint rotasi/pencabutan token (`POST /api/units/[id]/token`) serta formulir tambah dan arsip unit langsung ke alur pengiriman pesan WhatsApp korcam (menggantikan token pratinjau seed statis).
+2. **Evaluasi Cutoff Siklus Otomatis & Komparasi Tren Antar-Siklus Bulanan:** deteksi otomatis unit yang melewati `cutoff_at` tanpa pemicu manual admin, disertai ringkasan tren perubahan status antar-bulan di dasbor.
+3. **Tampilan Agregasi Lintas-Kecamatan untuk Pembina DLH (`ADVISOR`) & Peninjau Jejak Audit (`AuditLog`) di Aplikasi:** membangun pemilih serta rekapitulasi lintas kecamatan bagi peran `ADVISOR` dan tabel inspeksi `audit_logs` di antarmuka web.
 ## Yang HARUS sudah ada sebelum Final Day
-Skema+migrasi, seed sintetis, /c/[token] (check-in berfungsi), login, dasbor baca-saja. Catat commit awal.
+Skema 10 tabel Prisma + migrasi SQL, seed 30 unit sintetis, autentikasi `scrypt` + RBAC, UI 4 layar dual-mode (`AppDataProvider`), 14 endpoint Route Handler inti, serta 28 unit test hijau. Catat commit awal saat check-in Final Day.
 ## Definisi selesai
-Satu alur lengkap berjalan dari pesan WA -> ketuk -> dasbor -> kunjungan -> umpan balik, dengan data sintetis berlabel.
+Seluruh alur produksi berjalan tanpa token demo statis: tambah unit -> rotasi token acak 128-bit -> kirim WA -> check-in pengurus -> evaluasi cutoff otomatis -> tindak lanjut kunjungan -> peninjauan lintas kecamatan oleh pembina DLH dan audit log, dengan seluruh data sintetis berlabel jelas.

diff --git a/docs/06-RANKING-LOGIC.md b/docs/06-RANKING-LOGIC.md
@@ -23,3 +23,9 @@ export function score(u: UnitInput, cfg: Cfg): number | null {
 | C | 0 | Operating | 1 bulan | 0 |
 ## Tes wajib (tests/ranking)
 Closed dikecualikan; seri dipecah last_signal_at; bobot dari settings; batas 3 dan 6 bulan; unit tanpa riwayat.
+
+## Mitigasi Klaim Beroperasi Semu (False-Positive Self-Reporting)
+Untuk mengantisipasi pengurus yang mengetuk `Beroperasi` agar cepat selesai atau sungkan (*courtesy tap*) tanpa merusak target check-in `<10` detik (tanpa wajib unggah foto GPS tiap bulan), sistem menerapkan tiga lapis pertahanan:
+1. **Insentif Sosial Tanpa Sanksi:** Pengurus bekerja sukarela tanpa honor rutin (`Noerchaisna & Marom, 2025`; `Situmeang et al., 2023`). Status `Dijeda` memicu bantuan pendampingan atau mitra pengepul (Perwalkot Semarang 103/2021 Pasal 41g), sedangkan `Tutup` menghentikan pengingat bulanan setelah konfirmasi korcam.
+2. **Isolasi `monthsSinceContact` (`B_kunjungan`) dari Ketukan Pengurus:** Di `src/lib/ranking/index.ts`, ketukan pengurus hanya memperbarui `last_signal_at` (`checkin_signals`), sedangkan `last_visited_at` (`monthsSinceContact`) **hanya di-reset oleh verifikasi korcam/DLH (`visit_confirmations`)**. Unit yang terus mengetuk `Beroperasi` tanpa pernah diverifikasi `>6` bulan tetap memperoleh `B_kunjungan = +2` agar terambil untuk uji petik berkala (*spot-check*) saat antrean mendesak mereda.
+3. **Pemeriksaan Silang Pasif (*Zero-Burden Cross-Check*):** Korcam (yang juga pengurus bank sampah di kecamatan sama) dan Bank Sampah Induk (BSI) kecamatan dapat mencocokkan klaim `Beroperasi` beruntun dengan catatan riwayat jemputan sampah kering serta laporan kemitraan 6-bulanan (Permen LHK No. 14/2021 Pasal 15 ayat 4 & Lampiran IV).
